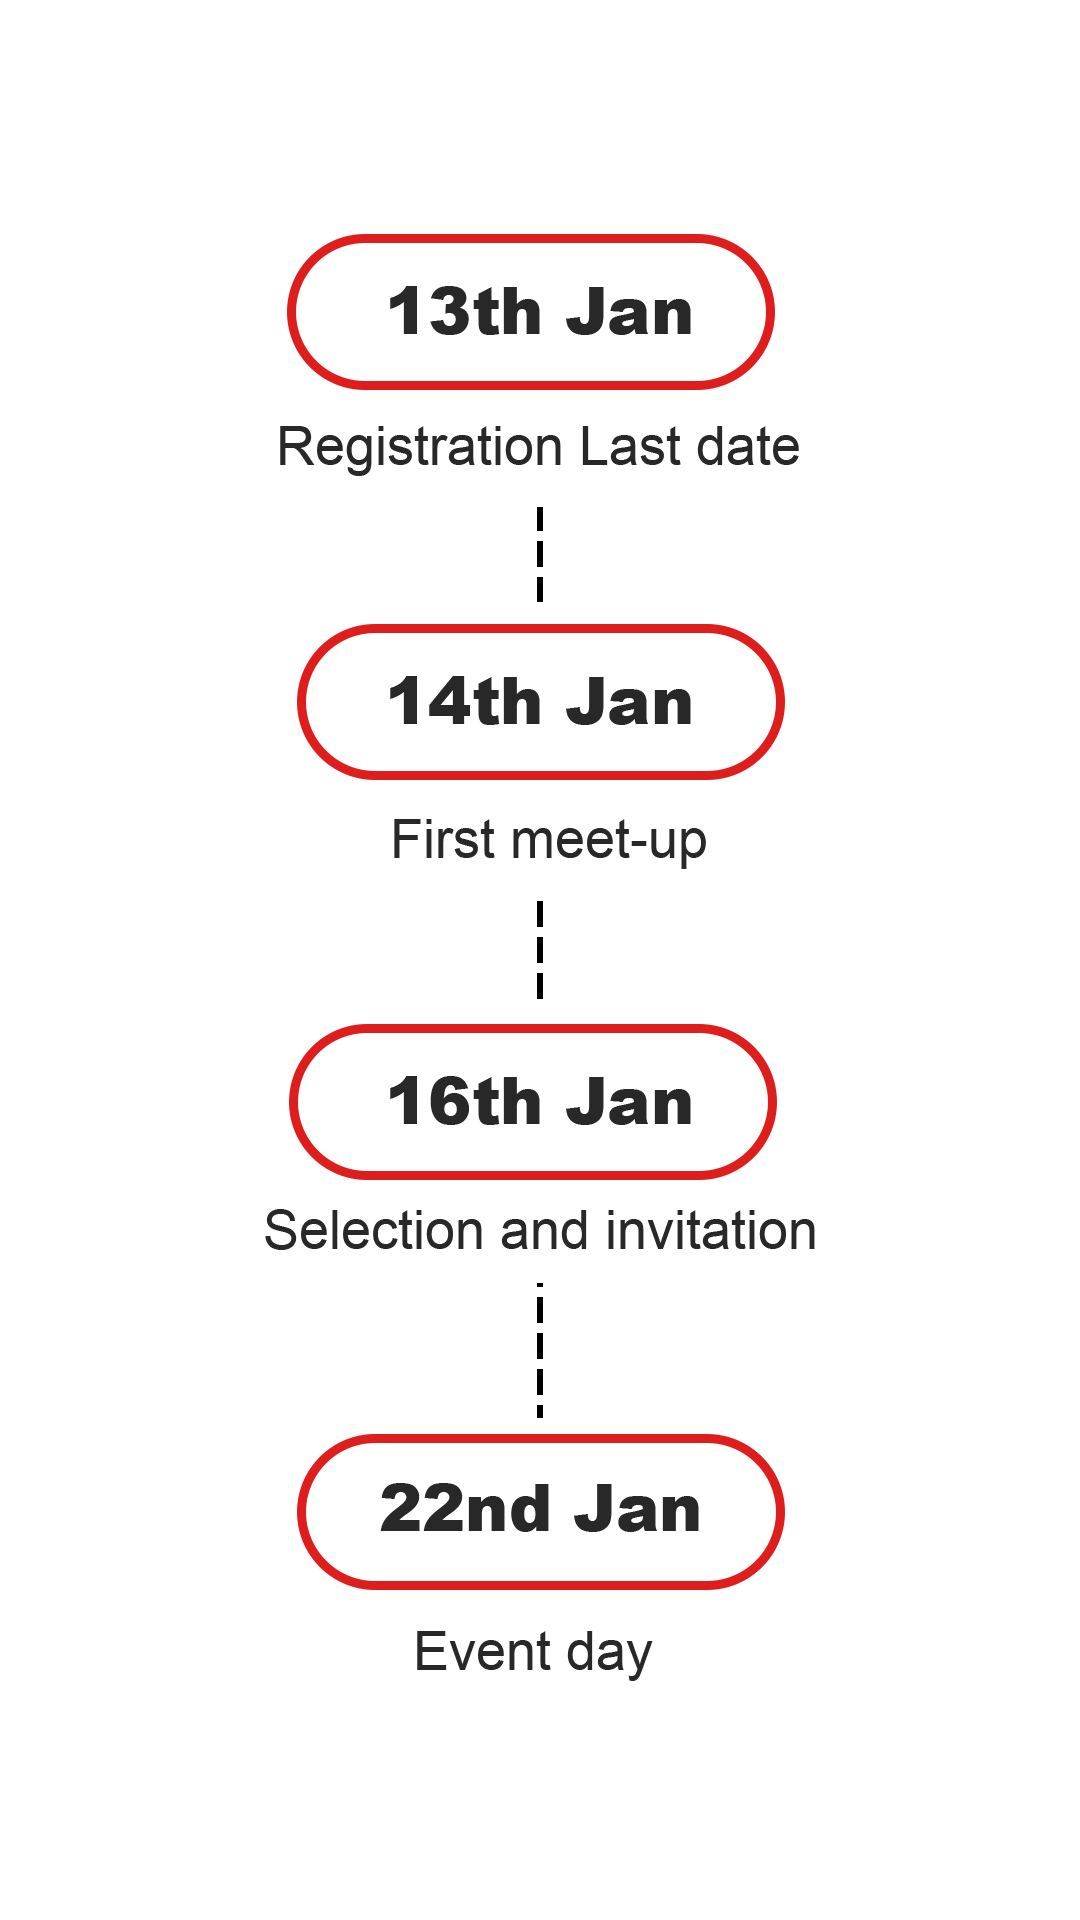
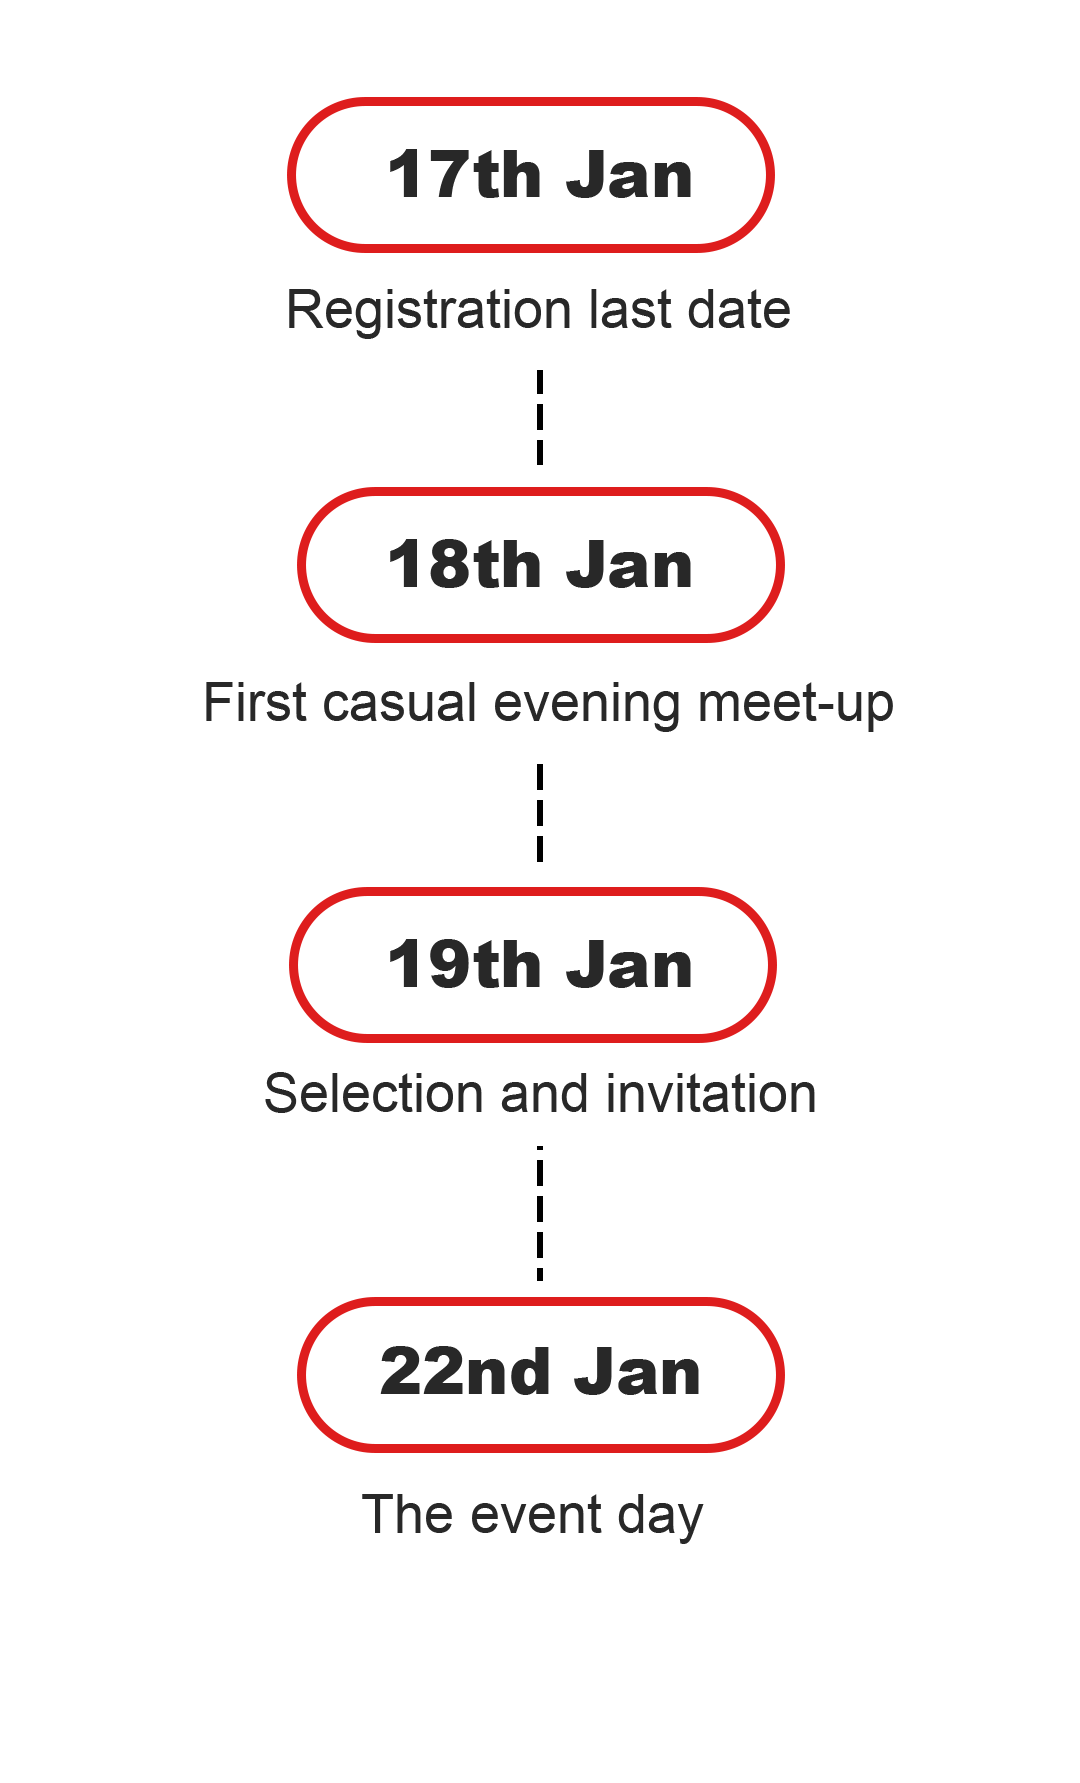
updated breakout

Changed region(s): [[0.1833, 0.0308, 0.825, 0.4627], [0.2444, 0.4936, 0.7639, 0.6786], [0.275, 0.7095, 0.7333, 0.8946]]

diff --git a/breakout.html b/breakout.html
@@ -80,7 +80,7 @@
                 <a class="nav-link" href="#section3">About Yoobbel</a>
               </li>
               <li class="nav-item">
-                <a class="nav-link" href="#ourteam">Guests</a>
+                <a class="nav-link" href="#ourteam">Team</a>
               </li>
               <li class="nav-item">
                 <a class="nav-link" href="#sponsors">Recognitions</a>
@@ -218,6 +218,16 @@
       </div>
     </div>
   </div>
+  <br>
+  <h1 class="text-black fs-40 fw-900">The <span class="cl-red fw-800 font-family-alt">Benefits</span></h1>
+  <div style="width:100%; height:auto; padding: 30px; font-size: 16px;">
+  <p class="text-black fs-40 fw-900">1) First step towards Entrepreneurship. Start something which gives you passive income,<span class="cl-red fw-800 font-family-alt"></span> right in the event.</p>
+  <p class="text-black fs-40 fw-900">2) Recognition among other top students from top 15 colleges of Bhubaneswar.<span class="cl-red fw-800 font-family-alt"></span></p>
+  <p class="text-black fs-40 fw-900">3) A good Lunch with entrepreneurs in the Matfair Lagoon.<span class="cl-red fw-800 font-family-alt"></span></p>
+  <p class="text-black fs-40 fw-900">4) Pre-selected for the Upcoming events, <span class="cl-red fw-800 font-family-alt"></span>which is likely to happen in the next 3 to 6 months.</p>
+  <p class="text-black fs-40 fw-900">5) Breakpout Audience Certification and get featured in selected members. (Scroll down to see)<span class="cl-red fw-800 font-family-alt"></span></p>
+  <p class="text-black fs-40 fw-900">6) Hand holding towards Entrepreneurship and financial freedom, Even after the event.<span class="cl-red fw-800 font-family-alt"></span></p>
+</div>
   <br>
   <h1 class="text-black fs-40 fw-900">Important <span class="cl-red fw-800 font-family-alt">Dates</span></h1>
   <div class="timelinem">
@@ -438,13 +448,14 @@ So if you're ready to be a part of something special and join the Top 1% Breakou
       </div>
     </div>
   </div>
+  <br>
   <div id="ourteam">
     <div class="container-fluid">
       <div class="row text-center">
         <div class="tedxspeakers-title text-center">
           <div style="height:10px; width:100%"></div>
-          <h1 class="text-black section2title  fs-40 fw-600 ff-mont" data-aos="fade-up">OUR GUESTS<span
-              class="text-base-color "></span></h1>
+          <h1 class="text-black section2title  fs-40 fw-600 ff-mont" data-aos="fade-up">OUR <span
+              class="text-base-color ">TEAM</span></h1>
         </div>
       </div>
     </div>
@@ -631,13 +642,20 @@ So if you're ready to be a part of something special and join the Top 1% Breakou
   </div>
   </div>
 
+  <div style="width:100%; height:auto; padding: 30px; font-size: 16px; text-align: center;">
+  <h1 class="text-black fs-40 fw-900">Breakout <span class="cl-red fw-800 font-family-alt">Audience</span></h1>
+  <p class="text-black fs-40 fw-900">Selected in the <span class="cl-red fw-800 font-family-alt"></span> Breakout Audience 1.0 (January 2023)</p>
+  <div class="recm"><img style="width: 100%; height: auto; padding: 10px;" src="assets/featured students.png"></div>
+  </div>
+
 
 
 
   <div id="sponsors">
     <h1 class="text-white section2title pt-2 fs-40 fw-600 m-3 ff-mont text-center">Recognitions<span
         class="text-base-color "></span></h1>
-    <div><img style="width: 100%; height: auto;" src="assets/Recognitions.png"></div>
+    <div class="recc"><img style="width: 100%; height: auto;" src="assets/Recognitions.png"></div>
+    <div class="recm"><img style="width: 100%; height: auto;" src="assets/Recognitions m.png"></div>
     <div class="container-fluid">
       <div class="row d-flex justify-content-center">
         <div class="col-md-2 m-3 text-center" data-aos="fade-up" data-aos-duration="500">
@@ -674,33 +692,20 @@ So if you're ready to be a part of something special and join the Top 1% Breakou
   <div id="myModal" class="modal">
     <div class="modal-content">
       <div class="row">
-        <h1 class="text-white fs-27 fw-600 w-100 text-center m-2">Why Sponsor Us</h1>
+        <h1 class="text-white fs-27 fw-600 w-100 text-center m-2">Eligibility and Key points</h1>
         <span class="close">&times;</span>
       </div>
       <div class="sponsorscontent">
         <div class="row">
           <ul class="sponsorscontentlist">
-            <li> A company will have the opportunity to associate with TEDx MITSG.</li>
-            <li>Placement of the company logo and advertisements on monitors before and after the show, as well as
-              during breaks.</li>
-            <li>Opportunity to place promotion material in the attendee gift bags.</li>
-            <li>Opportunity to place promotion material in the Speaker Packets.</li>
-            <li>Large logo placed on our website with long description of the company and link to your company’s
-              website.</li>
-            <li> Thanks to the explicitly named sponsor on stage by the masters-of- ceremonies at the end of the event.
-            </li>
-            <li>Mention in media/press release</li>
-            <li>Opportunity to set up exhibit space outside the main venue space.</li>
-            <li>Logo appears on post-roll credits (for a maximum of 3 seconds) at the end of each TEDx video watched by
-              millions of viewers from all over the world.</li>
-            <li>Logo appears on pre-roll credits (for a maximum of 3 seconds) at the start of each TEDx video, also
-              viewed by an enormous number, globally.</li>
-            <li>Option to set up a booth for an innovative product demonstration and/or sampling (no selling) of your
-              company’s product.</li>
+            <li> Current student from any of the mentioned colleges of Bhubaneswar.</li>
+            <li>Preferred year: 1st and 2nd year, but if you are really interested for it do not hesitate to apply.</li>
+            <li>Good communication always gives an edge.</li>
+            <li>This is for everyone, Boys and Girls or Other.</li>
+            <li>You can be from any state or country, but currently studying in Bhubaneswar.</li>
           </ul>
         </div>
-        <p class="fs-16 text-white">-- Any special request for specific publicity will be considered and fulfilled as
-          long as it is not in conflict with the motive of the event and principles of MITS Gwalior--</p>
+        <p class="fs-16 text-white">Limited members will get to attain the event in the Mayfair, so register as soon as possible and be ready for the first casual meet-up.</p>
       </div>
 
     </div>

diff --git a/css/style.css b/css/style.css
@@ -333,12 +333,37 @@ color:red;
 .timelinec {
   display: none;
 }
+
 @media screen and (min-width: 768px) {
-  .timelinem {
+  .timelinec {
   
     display: block;
+    margin: 30px;
   }
   }
+
+
+  .recm {
+    display: block;
+    
+  }
+  @media screen and (min-width: 768px) {
+    .recm {
+    
+      display: none;
+    }
+    }
+  
+  .recc {
+    display: none;
+  }
+  @media screen and (min-width: 768px) {
+    .recc {
+    
+      display: block;
+    }
+    }
+
 
 .text-base-color {
     color: #e62b1e !important;
@@ -1143,7 +1168,7 @@ color: white;
   font-size: 11px;
 }
 .modal-content {
-    background-color: #e85657;
+  background-color: rgb(207, 34, 34);
     margin: 20% auto;
     padding: 10px;
     border: 1px solid #888;
